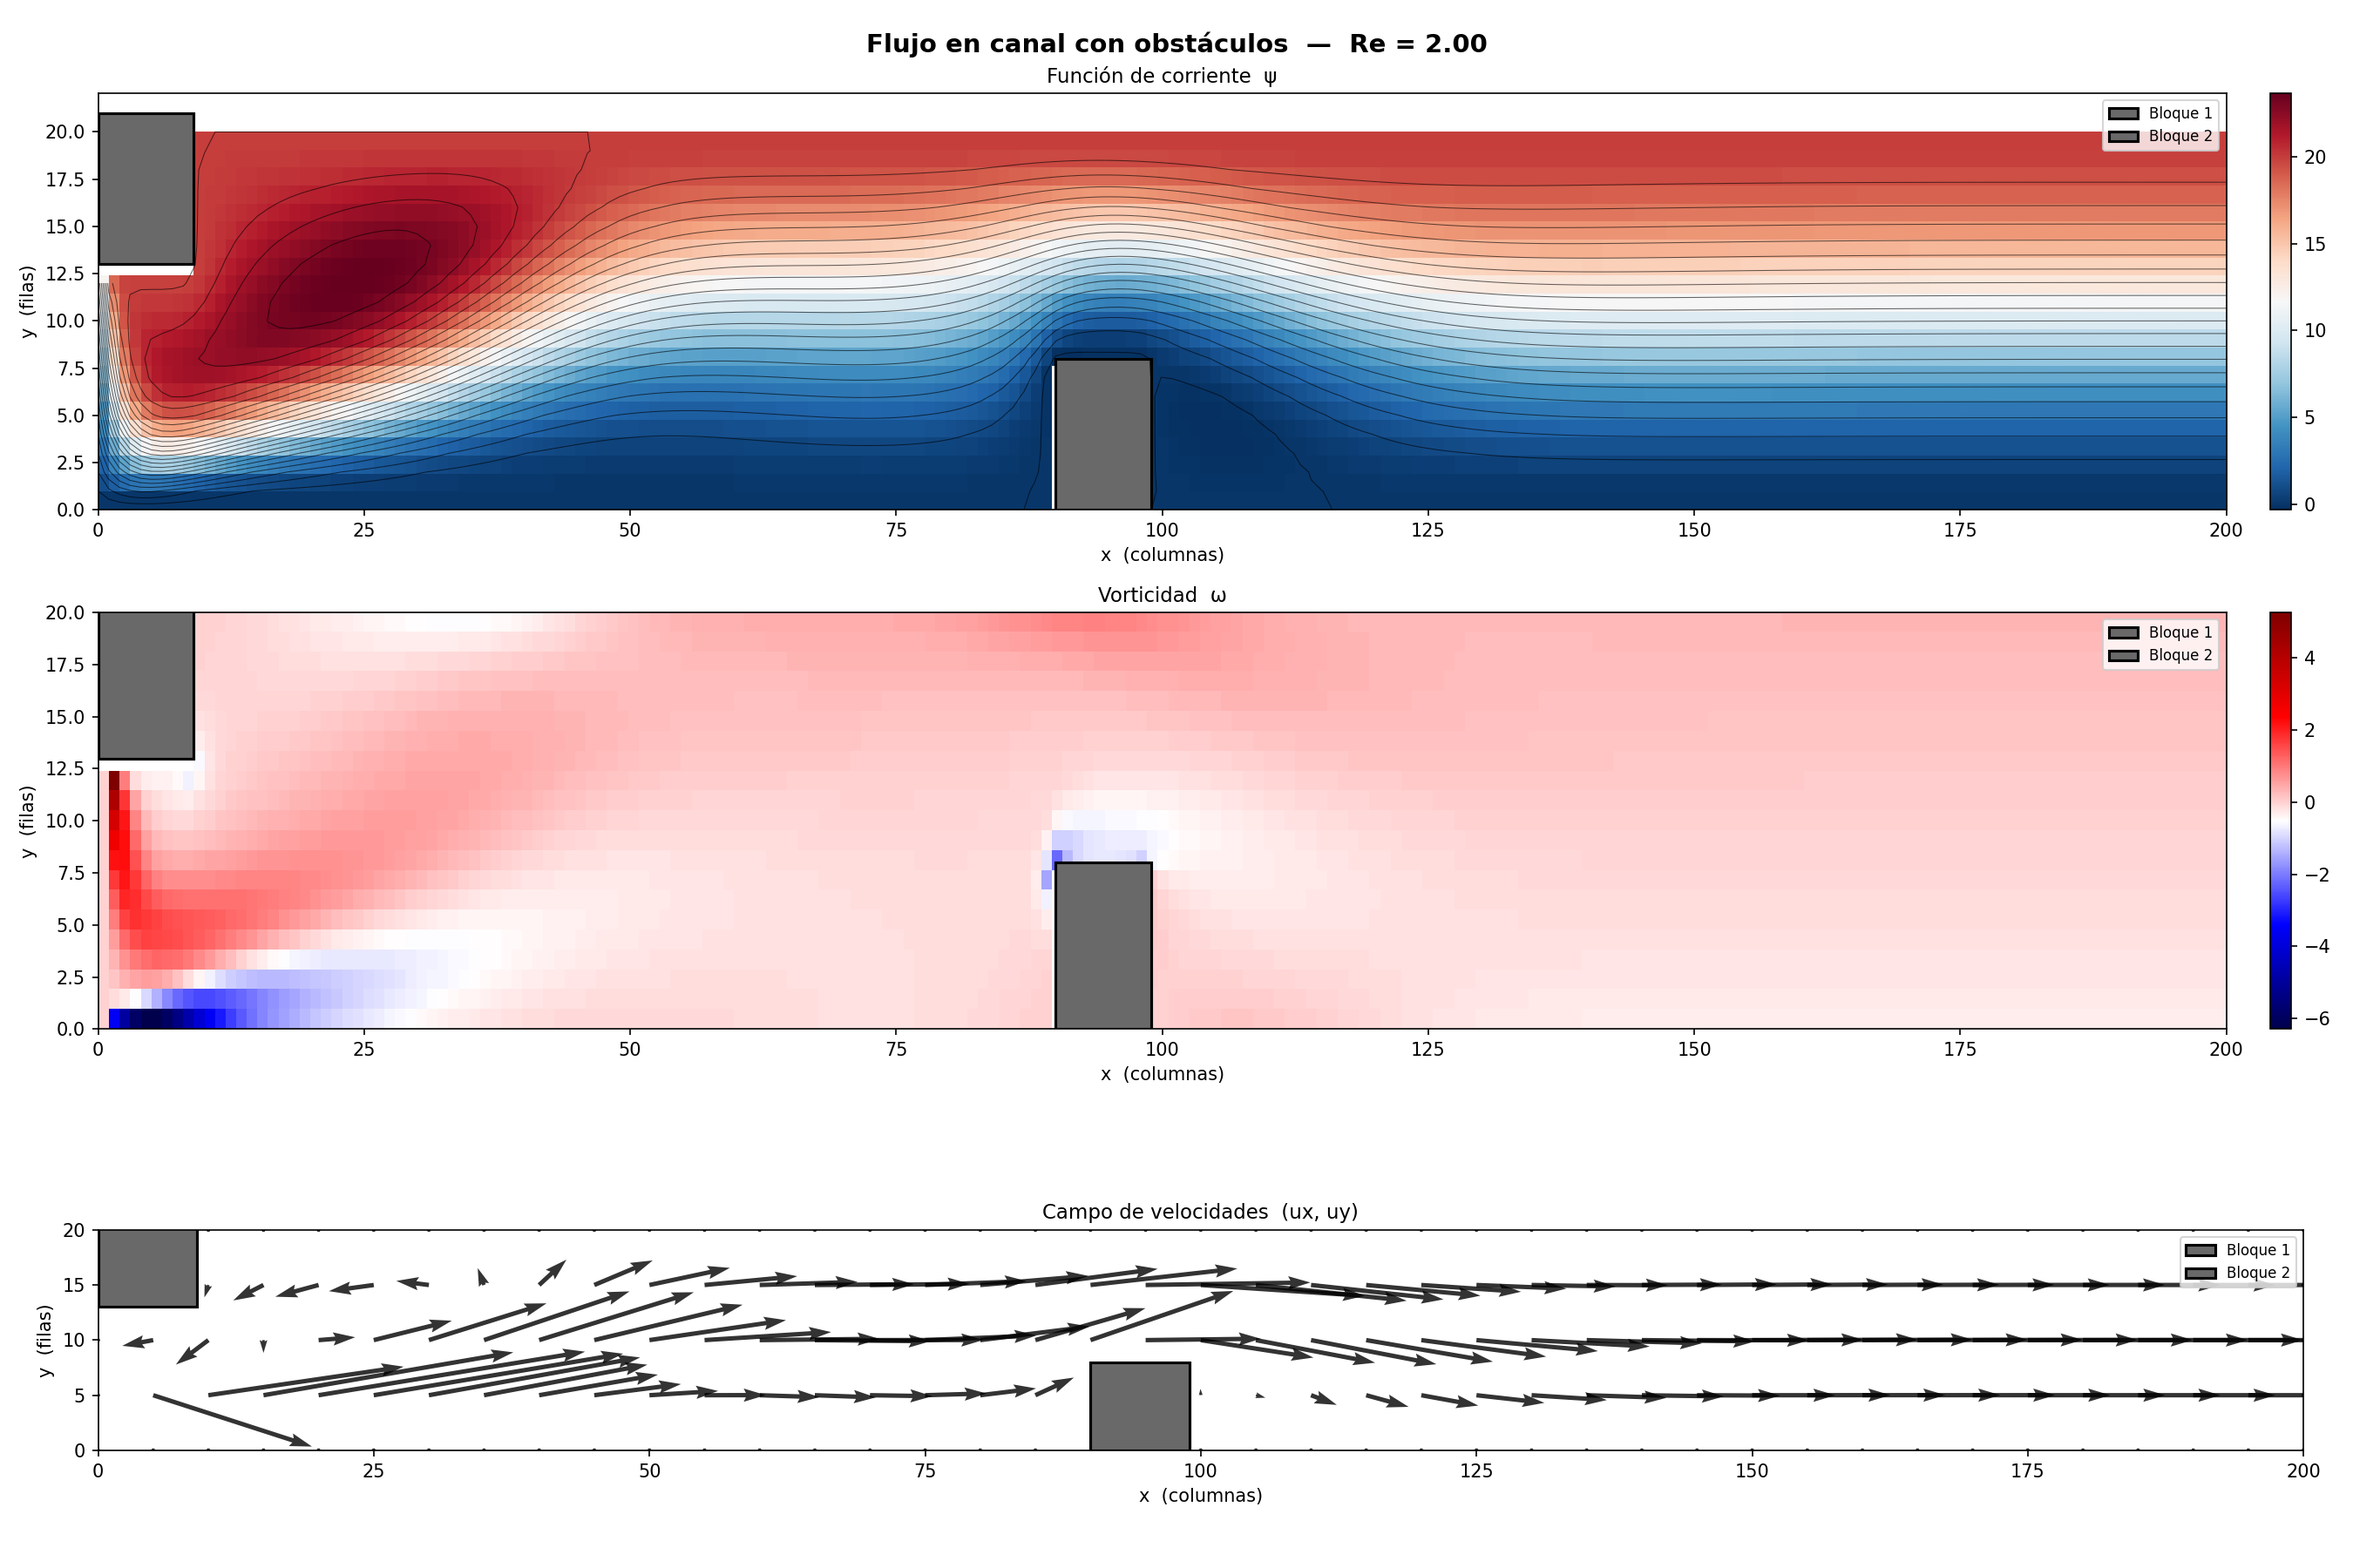
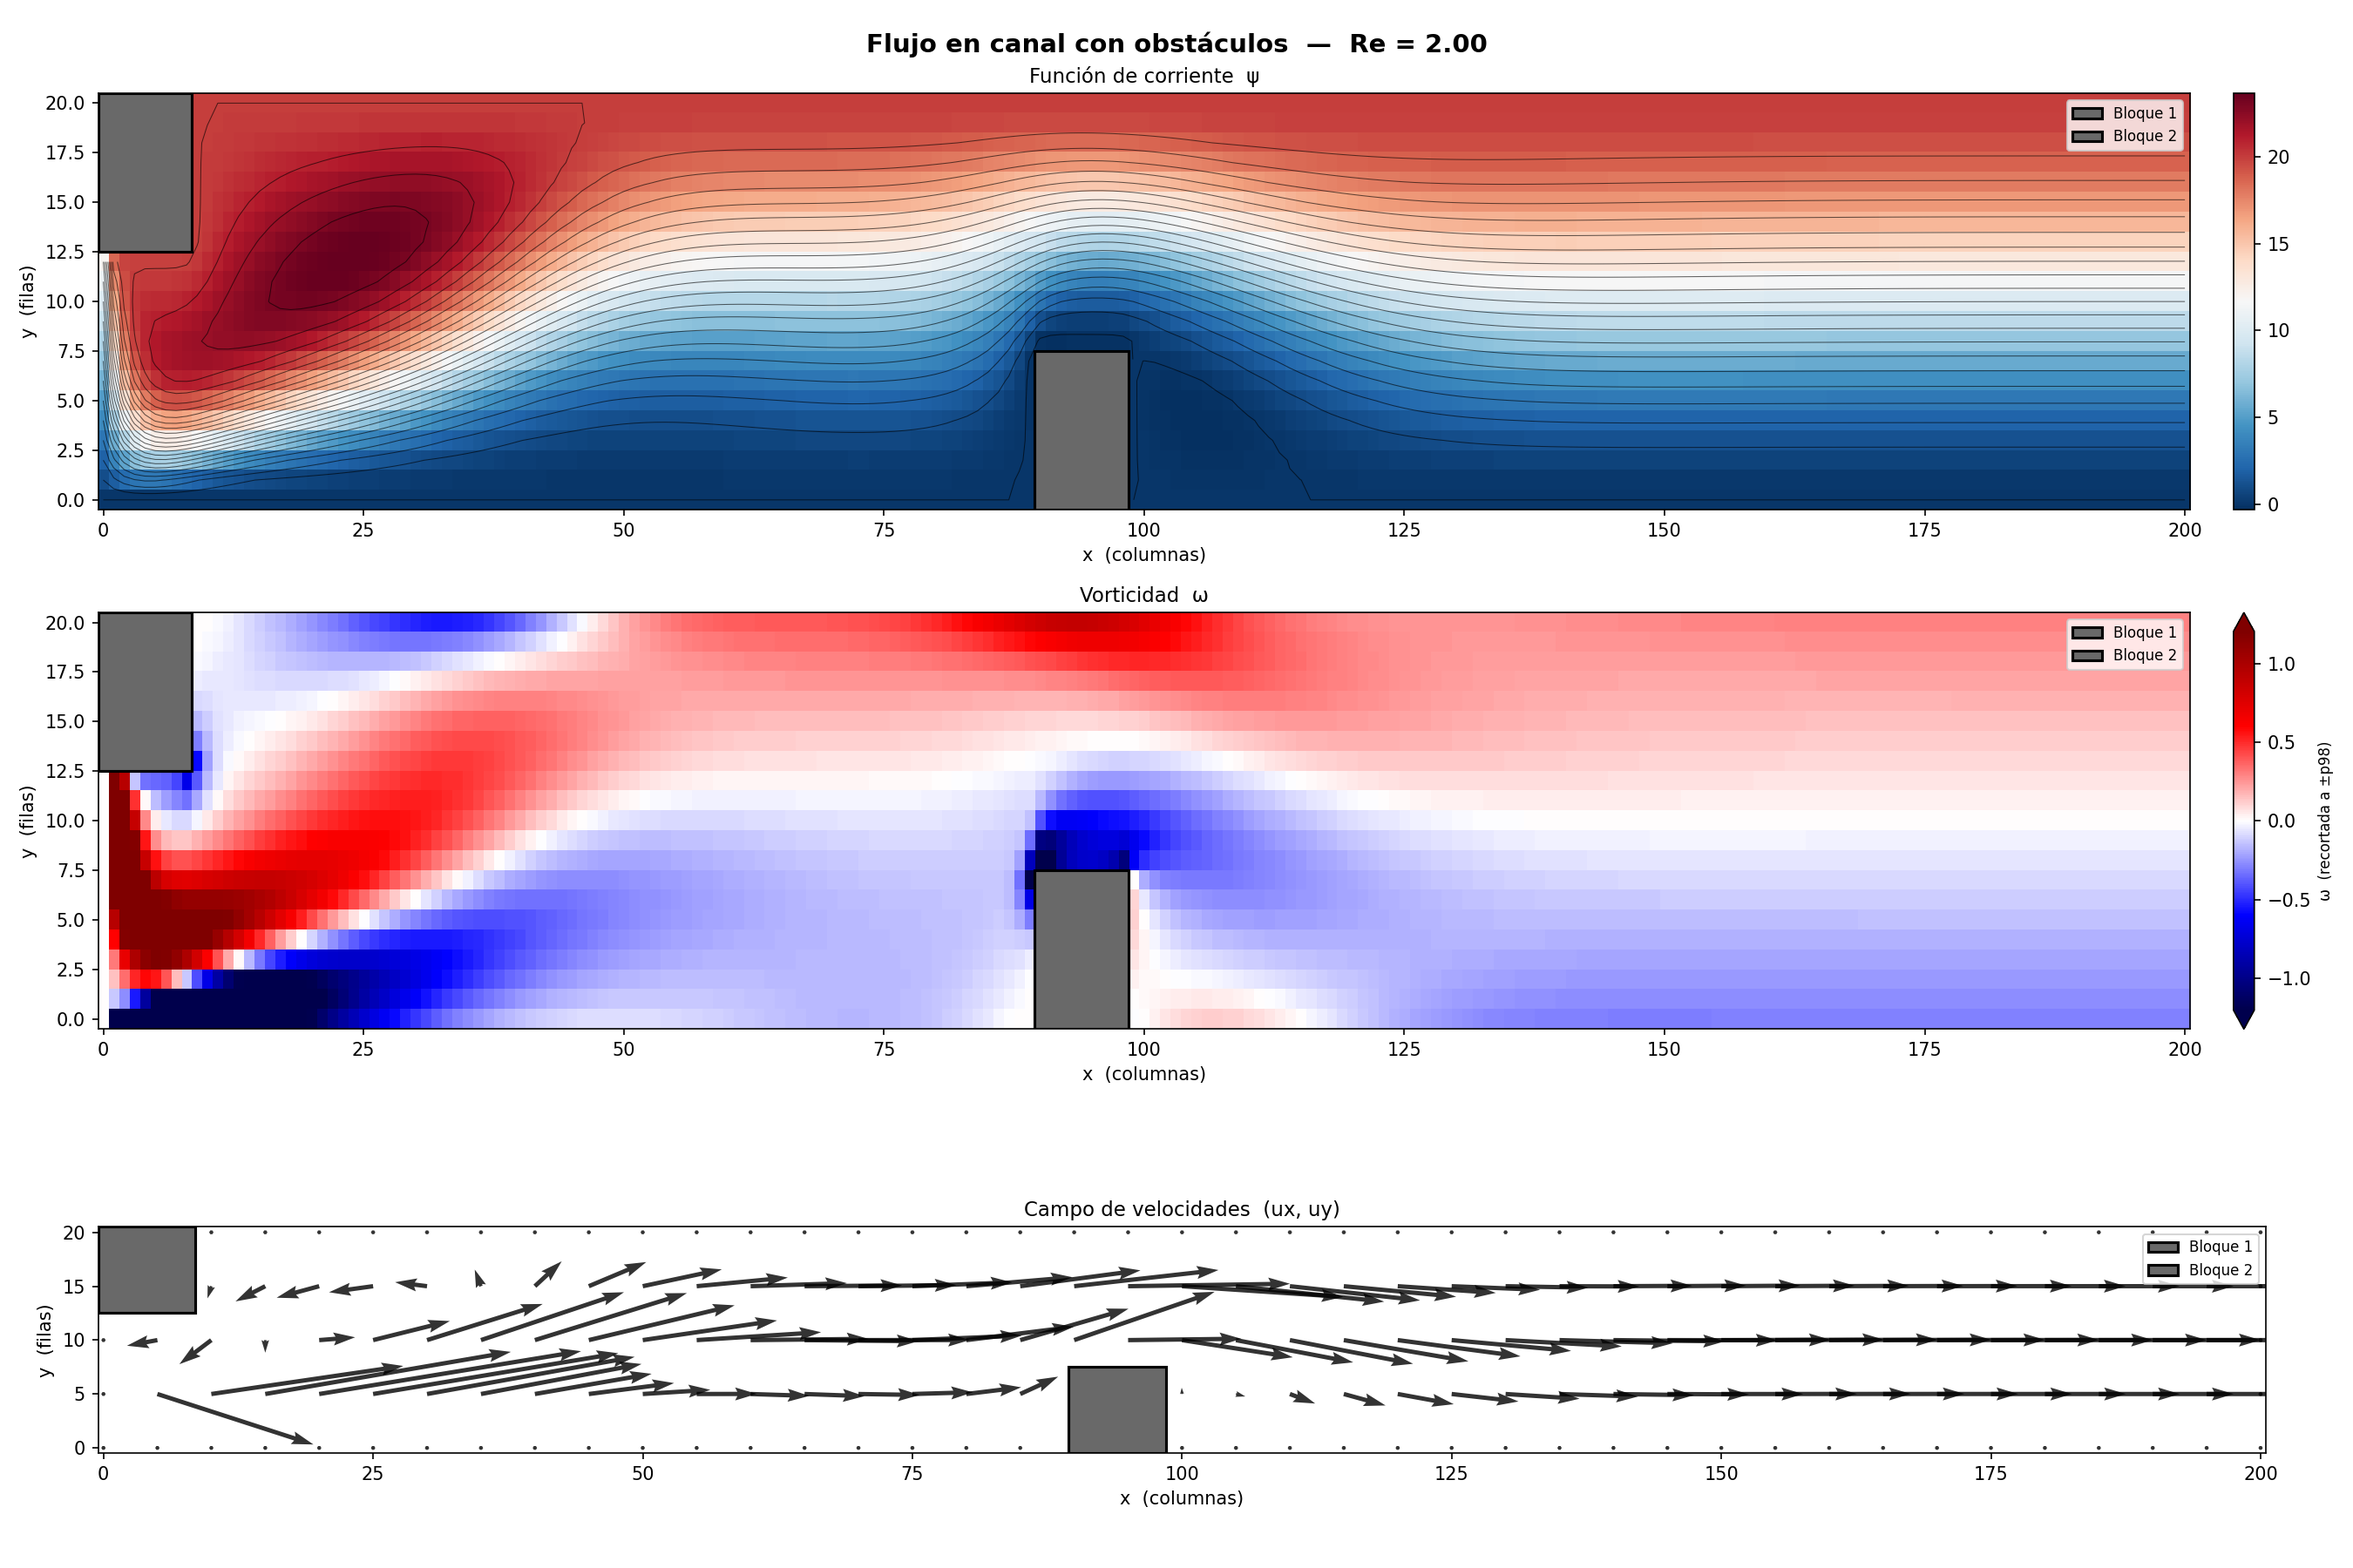
Fix para la primera grafica y rango de colores en la de vorticidad

diff --git a/visualizacion.py b/visualizacion.py
@@ -9,6 +9,7 @@
 import numpy as np
 import matplotlib.pyplot as plt
 import matplotlib.patches as mpatches
+from matplotlib.colors import TwoSlopeNorm
 
 
 def plot_results(psi, omega, Re,
@@ -47,24 +48,40 @@ def plot_results(psi, omega, Re,
     fig.suptitle(f"Flujo en canal con obstáculos  —  Re = {Re:.2f}",
                  fontsize=14, fontweight='bold')
 
+    # Fix descuadre: extent de -0.5 a N+0.5 centra cada píxel en su nodo entero,
+    # así los rectángulos (desde ic-0.5, jb-0.5) tapan justo las celdas sólidas.
+    ext = [-0.5, Nx + 0.5, -0.5, Ny + 0.5]
+
+    # Fix vorticidad: recorta la escala al percentil 98 de |ω| para que la esquina
+    # singular no aplaste el resto del campo hacia el blanco.
+    om_fluid = omega[fluid_mask]
+    om_lim = np.percentile(np.abs(om_fluid), 98) if om_fluid.size else 1.0
+    if om_lim <= 0:
+        om_lim = 1.0
+    # TwoSlopeNorm ancla el blanco en ω=0 y hace la escala simétrica ±om_lim.
+    om_norm = TwoSlopeNorm(vmin=-om_lim, vcenter=0.0, vmax=om_lim)
+
     configs = [
-        (psi,   "Función de corriente  ψ", "RdBu_r",  True),
-        (omega, "Vorticidad  ω",            "seismic", False),
+        (psi,   "Función de corriente  ψ", "RdBu_r",  True,  None),
+        (omega, "Vorticidad  ω",           "seismic", False, om_norm),
     ]
 
-    for ax, (field, title, cmap, do_contour) in zip(axes[:2], configs):
+    for ax, (field, title, cmap, do_contour, norm) in zip(axes[:2], configs):
         fld = np.ma.array(field.T, mask=~fluid_mask.T)
         im  = ax.imshow(fld, origin="lower", aspect="auto",
-                        cmap=cmap, extent=[0, Nx, 0, Ny])
-        plt.colorbar(im, ax=ax, fraction=0.015, pad=0.02)
+                        cmap=cmap, norm=norm, extent=ext)
+        cbar = plt.colorbar(im, ax=ax, fraction=0.015, pad=0.02,
+                            extend="both" if norm is not None else "neither")
+        if norm is not None:
+            cbar.set_label("ω  (recortada a ±p98)", fontsize=8)
 
-        # Bloques sólidos
+        # Bloques sólidos (esquina en ic-0.5, jb-0.5 para alinear con la máscara)
         for (ic, fc, jb, jt, lbl) in [
             (B1_ic, B1_fc, B1_jb, B1_jt, "Bloque 1"),
             (B2_ic, B2_fc, B2_jb, B2_jt, "Bloque 2"),
         ]:
             ax.add_patch(mpatches.Rectangle(
-                (ic, jb), fc - ic + 1, jt - jb + 1,
+                (ic - 0.5, jb - 0.5), fc - ic + 1, jt - jb + 1,
                 lw=1.5, edgecolor="k", facecolor="dimgray", label=lbl))
 
         # Contornos de streamlines
@@ -77,6 +94,8 @@ def plot_results(psi, omega, Re,
             except Exception:
                 pass
 
+        ax.set_xlim(ext[0], ext[1])
+        ax.set_ylim(ext[2], ext[3])
         ax.set_title(title, fontsize=11)
         ax.set_xlabel("x  (columnas)")
         ax.set_ylabel("y  (filas)")
@@ -99,11 +118,11 @@ def plot_results(psi, omega, Re,
         (B2_ic, B2_fc, B2_jb, B2_jt, "Bloque 2"),
     ]:
         ax.add_patch(mpatches.Rectangle(
-            (ic, jb), fc - ic + 1, jt - jb + 1,
+            (ic - 0.5, jb - 0.5), fc - ic + 1, jt - jb + 1,
             lw=1.5, edgecolor="k", facecolor="dimgray", label=lbl))
 
-    ax.set_xlim(0, Nx)
-    ax.set_ylim(0, Ny)
+    ax.set_xlim(-0.5, Nx + 0.5)
+    ax.set_ylim(-0.5, Ny + 0.5)
     ax.set_title("Campo de velocidades  (ux, uy)", fontsize=11)
     ax.set_xlabel("x  (columnas)")
     ax.set_ylabel("y  (filas)")

diff --git a/main.py b/main.py
@@ -13,7 +13,7 @@ from simulacion import (re_continuation,
 from visualizacion import plot_results
 
 # ── Parámetro principal ───────────────────────────────────────────────────────
-Re_objetivo = 2   # ← cambia aquí para explorar otros Reynolds
+Re_objetivo = 10   # ← cambia aquí para explorar otros Reynolds
 
 # ── Resolver ─────────────────────────────────────────────────────────────────
 psi_sol, omega_sol = re_continuation(Re_objetivo)
